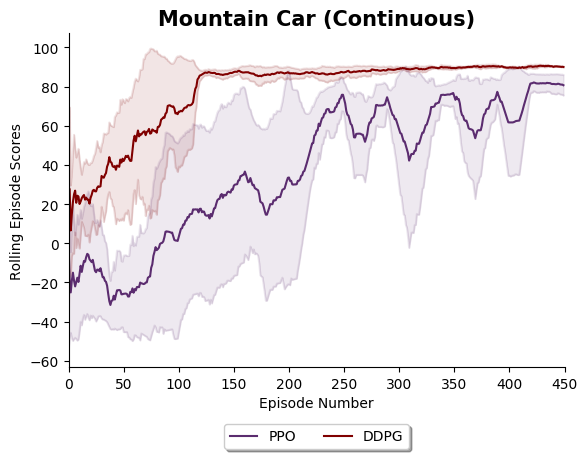
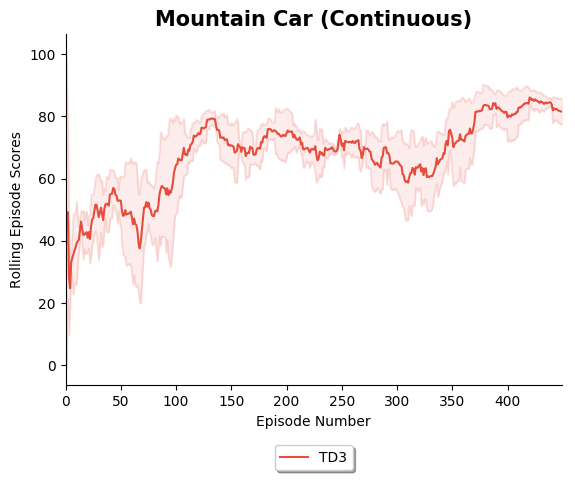
TD3 mountain car results

diff --git a/Results/Data_and_Graphs/Plot_Sets_Of_Results.py b/Results/Data_and_Graphs/Plot_Sets_Of_Results.py
@@ -4,13 +4,13 @@ from Trainer import Trainer
 
 trainer = Trainer(config=Config(), agents=None)
 
-trainer.visualise_set_of_preexisting_results(results_data_paths=["Data_and_Graphs/Cart_Pole_Results_Data.pkl",
-                                                                 "Data_and_Graphs/Mountain_Car_Results_Data.pkl"],
+trainer.visualise_set_of_preexisting_results(results_data_paths=["Cart_Pole_Results_Data.pkl",
+                                                                 "Mountain_Car_Results_Data.pkl"],
                                              plot_titles=["Cart Pole (Discrete Actions)", "Mountain Car (Continuous Actions)"],
-                                             save_image_path="Data_and_Graphs/CartPole_and_MountainCar_Graph.png")
+                                             save_image_path="CartPole_and_MountainCar_Graph.png")
 
 
-trainer.visualise_set_of_preexisting_results(results_data_paths=["Data_and_Graphs/Bit_Flipping_Results_Data.pkl",
-                                                                 "Data_and_Graphs/Fetch_Reach_Results_Data.pkl"],
-                                             plot_titles=["Bit Flipping", "Fetch Reach"],
-                                             save_image_path="Data_and_Graphs/HER_Experiments.png")
+# trainer.visualise_set_of_preexisting_results(results_data_paths=["Data_and_Graphs/Bit_Flipping_Results_Data.pkl",
+#                                                                  "Data_and_Graphs/Fetch_Reach_Results_Data.pkl"],
+#                                              plot_titles=["Bit Flipping", "Fetch Reach"],
+#                                              save_image_path="Data_and_Graphs/HER_Experiments.png")

diff --git a/Utilities/Trainer.py b/Utilities/Trainer.py
@@ -47,7 +47,8 @@ class Trainer(object):
             "PPO": "#5B2C6F",
             "DDPG": "#800000",
             "DQN-HER": "#008000",
-            "DDPG-HER": "#008000"
+            "DDPG-HER": "#008000",
+            "TD3": "#E74C3C"
         }
         return agent_to_color_dictionary
 

diff --git a/Results/Mountain_Car.py b/Results/Mountain_Car.py
@@ -60,7 +60,7 @@ config.hyperparameters = {
             "gradient_clipping_norm": 5
         },
 
-        "batch_size": 64,
+        "batch_size": 128,
         "discount_rate": 0.9,
         "mu": 0.0, #for O-H noise
         "theta": 0.15, #for O-H noise
